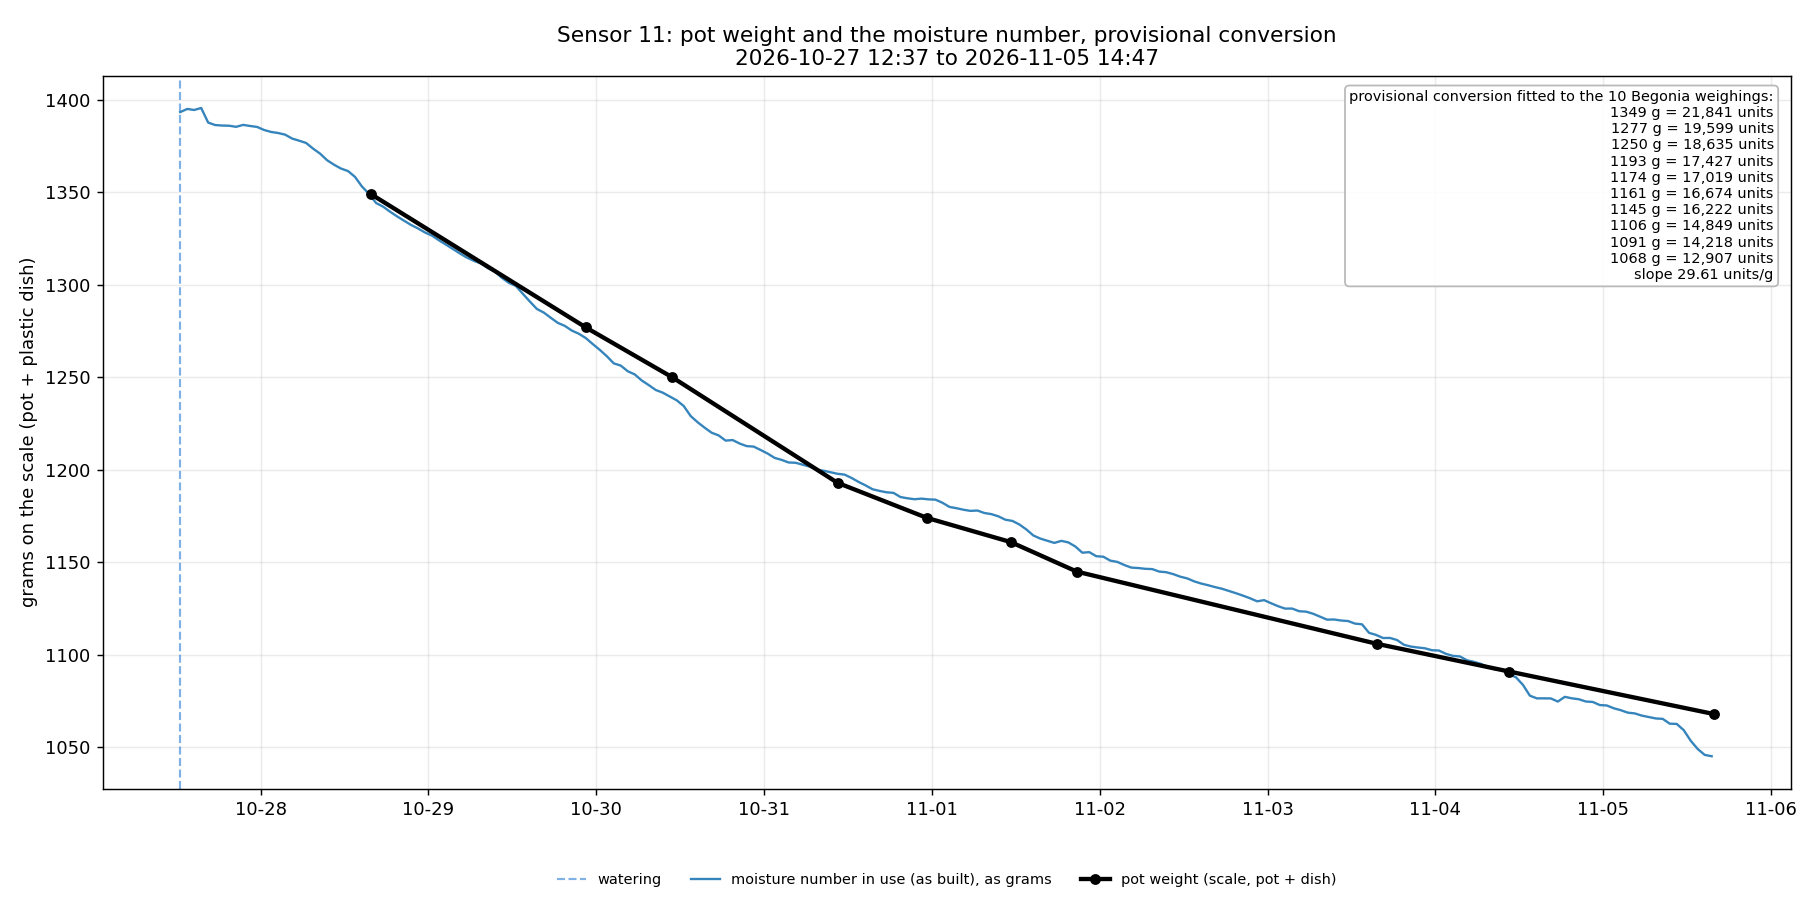
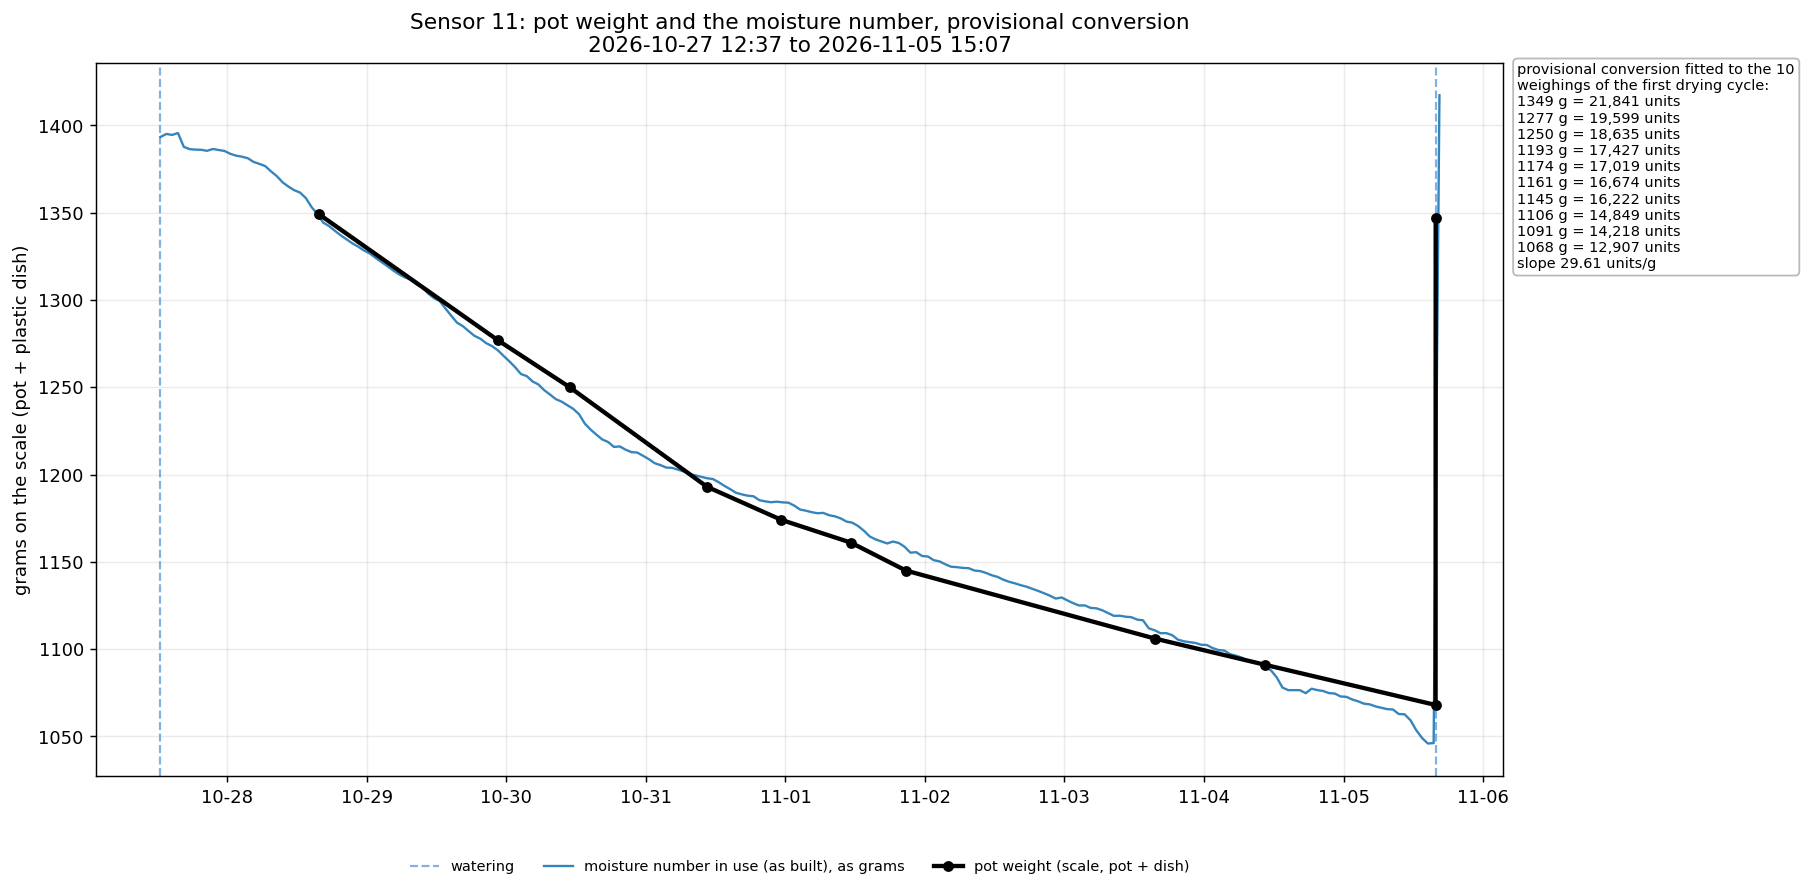
Begonia (sensor 11): watered 11-05 ~14:50, 1068 -> 1347 g (+279 g on the scale)
Probe saw it at the next soil sweep, wake 29981 at 14:57:18 PST:
13,287 -> 24,044 (10-27 was 13,365 -> 23,198). Six minutes earlier the
board temperature fell 25.75 -> 20.75 C with no new sweep and the stored
number rose ~450 on its temperature correction alone (~90 units/C).

Plot: a watering line per event; the provisional conversion is fitted on
the first drying cycle only, and a weighing pairs only with readings on
its own side of a watering (the 30-min window spanned this one). The fit
note moved outside the axes, since the new cycle climbs to the top right.

diff --git a/MSV4/scripts/msv4_begonia_mass_plot.py b/MSV4/scripts/msv4_begonia_mass_plot.py
@@ -36,9 +36,10 @@ def main() -> None:
     fleet = json.loads(FLEET.read_text(encoding="utf-8"))
     board = next(b for b in fleet["msv4_boards"]["boards"] if b.get("sensor_id") == 11)
     state = board["physical_state"]
-    event = state["watering_events"]["events"][-1]
-    # This event predates the structured `at` convention; its measured time is explicit in fleet.
+    # The first event predates the structured `at` convention; its measured time is explicit in fleet.
     watered = datetime.fromisoformat("2026-10-27T12:29:00-07:00")
+    waterings = [watered] + [datetime.fromisoformat(e["at"])
+                             for e in state["watering_events"]["events"] if "at" in e]
     rows = [r for r in reading.load(args.csv, None) if r["time"] >= watered and r["stored"] is not None]
     if not rows:
         raise SystemExit("no sensor 11 readings at or after the recorded watering")
@@ -58,10 +59,20 @@ def main() -> None:
     hours = (weight_times[-1] - weight_times[0]).total_seconds() / 3600
     change = weights[-1] - weights[0]
 
+    def cycle(t: datetime) -> int:
+        """Index of the drying cycle t falls in (0 = after the first watering)."""
+        return sum(1 for w in waterings if w <= t) - 1
+
+    # Fit on the first drying cycle only: a fresh watering is not settled, and later
+    # cycles are drawn through this conversion to show whether they read the same.
+    # A reading pairs with a weighing only when no watering falls between them.
     paired = []
-    for when, grams in zip(weight_times, weights):
+    for weighing, when, grams in zip(weighings, weight_times, weights):
+        if cycle(when) != 0 or weighing.get("post_watering"):
+            continue
         nearby = [r["stored"] for r in rows
-                  if abs((r["time"] - when).total_seconds()) <= 30 * 60]
+                  if abs((r["time"] - when).total_seconds()) <= 30 * 60
+                  and cycle(r["time"]) == cycle(when)]
         if nearby:
             paired.append((grams, statistics.median(nearby)))
     if len(paired) < 2:
@@ -76,7 +87,8 @@ def main() -> None:
 
     # Match msv4_mass_vs_value_plot.py, the existing Alocasia figure.
     fig, ax = plt.subplots(figsize=(14, 7))
-    ax.axvline(watered, color="#4a90d9", lw=1.2, ls="--", alpha=0.7, label="watering")
+    for i, w in enumerate(waterings):
+        ax.axvline(w, color="#4a90d9", lw=1.2, ls="--", alpha=0.7, label="watering" if i == 0 else None)
     ax.plot([t for t, _ in moisture_as_grams], [g for _, g in moisture_as_grams],
             color="#1f77b4", lw=1.3, alpha=0.9,
             label="moisture number in use (as built), as grams")
@@ -85,18 +97,17 @@ def main() -> None:
     ax.set_ylabel("grams on the scale (pot + plastic dish)")
     ax.set_title("Sensor 11: pot weight and the moisture number, provisional conversion\n"
                  f"{rows[0]['time']:%Y-%m-%d %H:%M} to {rows[-1]['time']:%Y-%m-%d %H:%M}")
-    # The pot only dries, so the data runs top-left to bottom-right; the
-    # upper-right corner stays empty, one pair per line.
-    note = (f"provisional conversion fitted to the {len(paired)} Begonia weighings:\n"
+    # Outside the axes: after a watering the newest data climbs back to the top right.
+    note = (f"provisional conversion fitted to the {len(paired)}\nweighings of the first drying cycle:\n"
             + "\n".join(f"{g:.0f} g = {u:,.0f} units" for g, u in paired)
             + f"\nslope {slope:.2f} units/g")
-    ax.text(0.99, 0.98, note, transform=ax.transAxes, fontsize=8, va="top", ha="right",
+    ax.text(1.01, 1.0, note, transform=ax.transAxes, fontsize=8, va="top", ha="left",
             bbox=dict(boxstyle="round", fc="white", ec="0.7", alpha=0.9))
     ax.xaxis.set_major_formatter(mdates.DateFormatter("%m-%d", tz=rows[0]["time"].tzinfo))
     ax.grid(alpha=0.25)
     ax.legend(loc="upper center", bbox_to_anchor=(0.5, -0.1), ncol=3, fontsize=8, frameon=False)
     fig.tight_layout()
-    fig.savefig(args.out, dpi=130)
+    fig.savefig(args.out, dpi=130, bbox_inches="tight")
     print(args.out)
 
 
